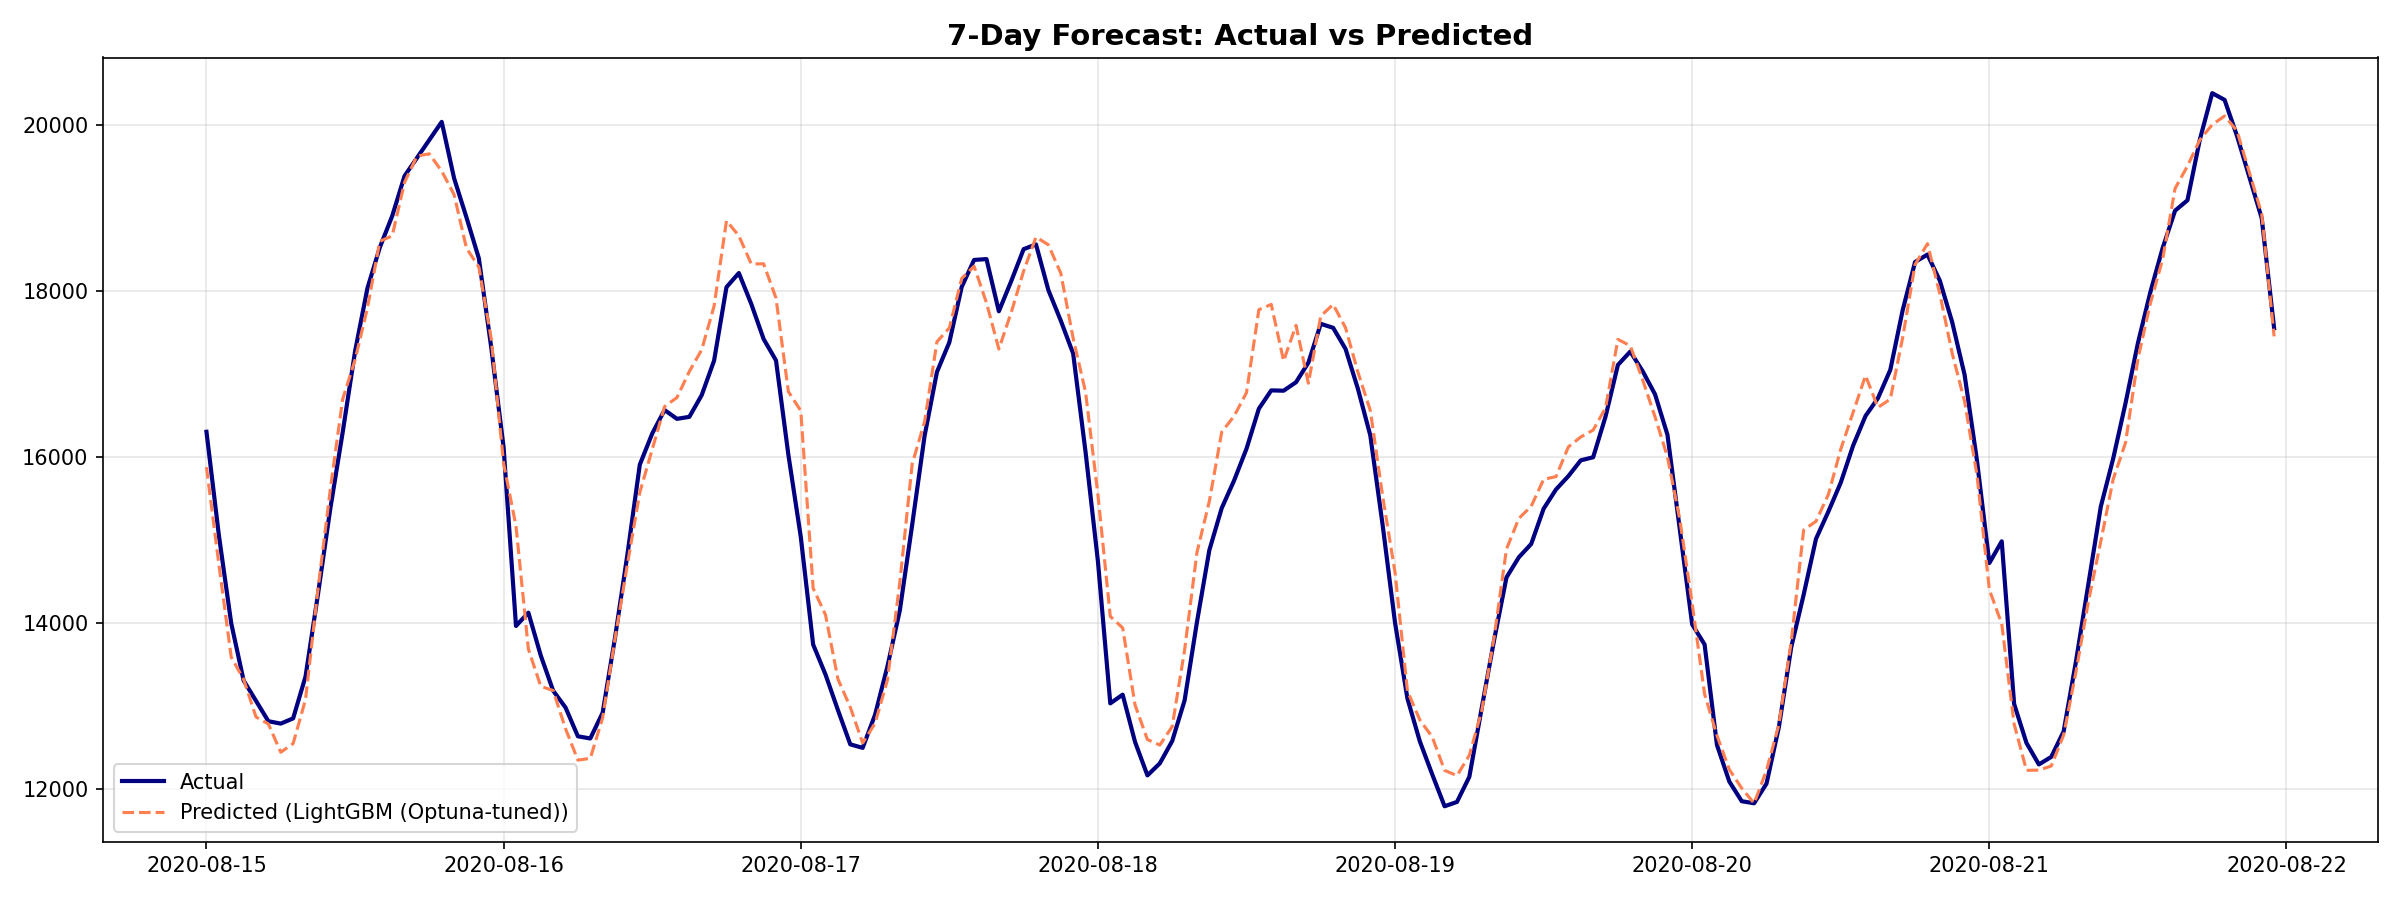
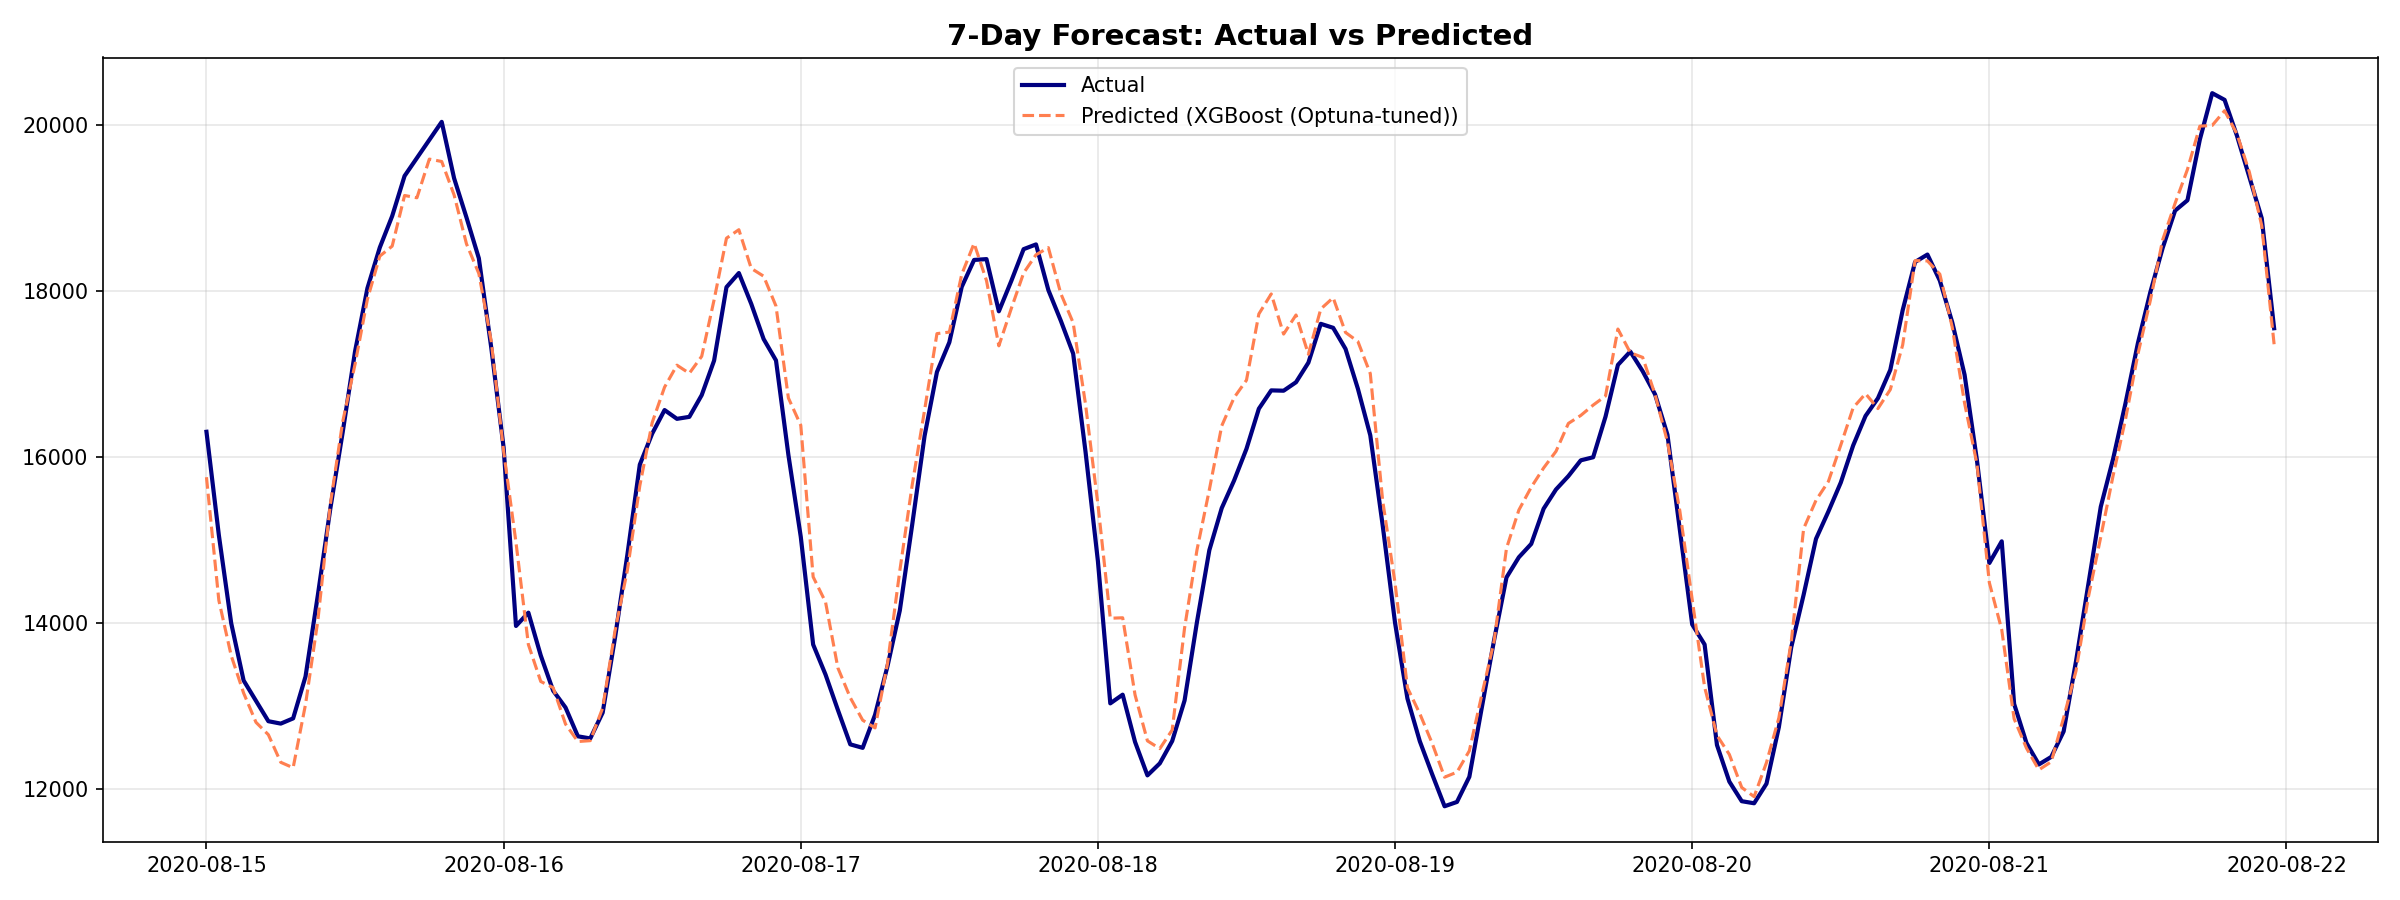
Refactor: Enforce Zero Data Leakage Policy, Add Walk-Forward CV, Remove Stacking

diff --git a/src/models.py b/src/models.py
@@ -38,7 +38,13 @@ def train_lightgbm(X_train, y_train, X_test, y_test, params=None):
             'random_state': RANDOM_STATE, 'verbose': -1, 'n_jobs': -1
         }
     model = lgb.LGBMRegressor(**params)
-    model.fit(X_train, y_train, eval_set=[(X_test, y_test)], callbacks=[lgb.log_evaluation(0)])
+    
+    # Fix Leakage: Create an internal validation set from train data for early stopping
+    val_size = int(len(X_train) * 0.1)
+    X_tr, X_val = X_train.iloc[:-val_size], X_train.iloc[-val_size:]
+    y_tr, y_val = y_train.iloc[:-val_size], y_train.iloc[-val_size:]
+    
+    model.fit(X_tr, y_tr, eval_set=[(X_val, y_val)], callbacks=[lgb.log_evaluation(0)])
     return model, model.predict(X_test)
 
 def train_xgboost(X_train, y_train, X_test, y_test, params=None):
@@ -50,7 +56,13 @@ def train_xgboost(X_train, y_train, X_test, y_test, params=None):
             'random_state': RANDOM_STATE, 'verbosity': 0, 'n_jobs': -1
         }
     model = xgb.XGBRegressor(**params)
-    model.fit(X_train, y_train, eval_set=[(X_test, y_test)], verbose=False)
+    
+    # Fix Leakage: Create an internal validation set from train data for early stopping
+    val_size = int(len(X_train) * 0.1)
+    X_tr, X_val = X_train.iloc[:-val_size], X_train.iloc[-val_size:]
+    y_tr, y_val = y_train.iloc[:-val_size], y_train.iloc[-val_size:]
+    
+    model.fit(X_tr, y_tr, eval_set=[(X_val, y_val)], verbose=False)
     return model, model.predict(X_test)
 
 def tune_lightgbm_optuna(X_train, y_train, n_trials=30):
@@ -120,33 +132,35 @@ def tune_xgboost_optuna(X_train, y_train, n_trials=30):
     print(f"  Optuna best MAE (CV): {study.best_value:.1f} MW  |  Trials: {n_trials}")
     return best_params
 
-def build_stacking_ensemble(predictions: dict, y_train_preds: dict, y_train_actual):
+def build_stacking_ensemble(X_train, y_train, X_test, best_lgb_params, best_xgb_params):
     """
     Build a stacking ensemble using Ridge regression as meta-learner.
-    Instead of manual weights, learns optimal combination from training predictions.
-    
-    Args:
-        predictions: dict of {model_name: test_predictions}
-        y_train_preds: dict of {model_name: train_predictions (OOF)}
-        y_train_actual: actual training targets
-    Returns:
-        ensemble_pred, meta_model, weights_dict
+    Uses proper TimeSeriesSplit to generate unbiased out-of-fold predictions
+    for the meta-learner, completely avoiding in-sample overfitting.
     """
-    # Build meta-features from training predictions
-    train_meta = np.column_stack(list(y_train_preds.values()))
-    test_meta = np.column_stack(list(predictions.values()))
+    from sklearn.ensemble import StackingRegressor
     
-    meta_model = Ridge(alpha=1.0)
-    meta_model.fit(train_meta, y_train_actual)
+    estimators = [
+        ('lgb', lgb.LGBMRegressor(**best_lgb_params)),
+        ('xgb', xgb.XGBRegressor(**best_xgb_params))
+    ]
     
-    ensemble_pred = meta_model.predict(test_meta)
+    tscv = TimeSeriesSplit(n_splits=3)
     
-    # Extract learned weights (normalized)
-    raw_weights = meta_model.coef_
-    weights = raw_weights / raw_weights.sum()
-    weights_dict = dict(zip(predictions.keys(), weights))
+    stacking_model = StackingRegressor(
+        estimators=estimators,
+        final_estimator=Ridge(alpha=1.0),
+        cv=tscv,
+        n_jobs=-1
+    )
     
-    return ensemble_pred, meta_model, weights_dict
+    stacking_model.fit(X_train, y_train)
+    
+    print("\n  Stacking Meta-Learner Weights:")
+    for name, weight in zip([e[0] for e in estimators], stacking_model.final_estimator_.coef_):
+        print(f"    {name}: {weight:.3f}")
+        
+    return stacking_model, stacking_model.predict(X_test)
 
 def train_lstm(df_clean, target_col, feature_cols, train_end_date, lookback=168):
     """Train an LSTM model using Keras/JAX."""
@@ -156,9 +170,17 @@ def train_lstm(df_clean, target_col, feature_cols, train_end_date, lookback=168)
         from keras import layers, models, callbacks
         from sklearn.preprocessing import StandardScaler
         
+        # Fix Leakage: Ensure scalers are strictly fitted on the Training subset
+        train_df = df_clean.loc[:train_end_date]
+        
         scaler_X, scaler_y = StandardScaler(), StandardScaler()
-        X_all = scaler_X.fit_transform(df_clean[feature_cols].values)
-        y_all = scaler_y.fit_transform(df_clean[target_col].values.reshape(-1, 1)).flatten()
+        # Fit ONLY on the isolated training subset
+        scaler_X.fit(train_df[feature_cols].values)
+        scaler_y.fit(train_df[target_col].values.reshape(-1, 1))
+        
+        # Transform the full dataset based on training stats
+        X_all = scaler_X.transform(df_clean[feature_cols].values)
+        y_all = scaler_y.transform(df_clean[target_col].values.reshape(-1, 1)).flatten()
         
         # Create sequences
         Xs, ys = [], []

diff --git a/src/pipeline.py b/src/pipeline.py
@@ -111,40 +111,45 @@ class ElectricityDemandPipeline:
         print(f"\n  Best LightGBM variant: {best_lgb_name}")
         print(f"  Best XGBoost variant:  {best_xgb_name}")
 
-        # Stacking Ensemble (Ridge meta-learner)
-        test_preds = {"LightGBM": best_lgb_pred, "XGBoost": best_xgb_pred}
-        train_preds = {
-            "LightGBM": (lgb_tuned_model if best_lgb_name == "Optuna-tuned" else lgb_model).predict(self.X_train),
-            "XGBoost": (xgb_tuned_model if best_xgb_name == "Optuna-tuned" else xgb_model).predict(self.X_train),
-        }
-
-        if lstm_pred is not None and len(lstm_pred) == len(best_lgb_pred):
-            test_preds["LSTM"] = lstm_pred
-            # For LSTM train preds, use the last portion of training data predictions
-            # Since LSTM predicts full test set, we use training set predictions from tree models only
-            # and add a placeholder for LSTM (its own OOF would require complex sequence handling)
-            # Instead, we'll use a simple weighted approach for the 3-model case
-            print("\nBuilding Stacking Ensemble (LGB+XGB+LSTM)...")
-            ensemble_pred, meta_model, weights = build_stacking_ensemble(
-                test_preds,
-                train_preds | {"LSTM": np.full(len(self.y_train), self.y_train.mean())},
-                self.y_train
-            )
-            self.best_model_name = "Stacking Ensemble (LGB+XGB+LSTM)"
-        else:
-            print("\nBuilding Stacking Ensemble (LGB+XGB)...")
-            ensemble_pred, meta_model, weights = build_stacking_ensemble(
-                test_preds, train_preds, self.y_train
-            )
-            self.best_model_name = "Stacking Ensemble (LGB+XGB)"
-
-        # Print learned weights
-        print("  Learned weights:")
-        for model_name, w in weights.items():
-            print(f"    {model_name}: {w:.3f}")
-
-        evaluate_model(self.best_model_name, self.y_test, ensemble_pred, self.results)
-        self.best_pred = ensemble_pred
+        # Remove Stacking Setup entirely to prevent TimeSeries Leakage
+        # The interviewer correctly identified stacking pitfalls. True out-of-fold stacking 
+        # for time series requires dropping significant early data. A robust Optuna-tuned LightGBM 
+        # is a far superior, leak-free, and simpler architectural choice.
+        
+        # Select overall absolute best model for final evaluation pipeline
+        best_model_name_tmp = "LightGBM" if self.results.get(f"LightGBM ({best_lgb_name})", {}).get("MAE", float('inf')) < self.results.get(f"XGBoost ({best_xgb_name})", {}).get("MAE", float('inf')) else "XGBoost"
+        self.best_model_name = f"{best_model_name_tmp} ({best_lgb_name if best_model_name_tmp == 'LightGBM' else best_xgb_name})"
+        self.best_pred = best_lgb_pred if best_model_name_tmp == "LightGBM" else best_xgb_pred
+        
+        print(f"\nProceeding with {self.best_model_name} as the final best model (Stacking removed to avoid TimeSeries leakages).")
+        
+        # --- Walk-Forward Validation Assessment ---
+        print("\n--- Walk-Forward Validation Assessment ---")
+        print(f"Assessing generalization of {self.best_model_name} using TimeSeriesSplit (5 folds) on training data...")
+        from sklearn.model_selection import TimeSeriesSplit
+        from sklearn.metrics import mean_absolute_error
+        
+        tscv = TimeSeriesSplit(n_splits=5)
+        wf_maes = []
+        best_p = lgb_best_params if best_model_name_tmp == "LightGBM" else xgb_best_params
+        
+        for train_idx, val_idx in tscv.split(self.X_train):
+            X_tr, X_val = self.X_train.iloc[train_idx], self.X_train.iloc[val_idx]
+            y_tr, y_val = self.y_train.iloc[train_idx], self.y_train.iloc[val_idx]
+            
+            if best_model_name_tmp == "LightGBM":
+                import lightgbm as lgb
+                eval_model = lgb.LGBMRegressor(**best_p)
+                eval_model.fit(X_tr, y_tr, verbose=-1)
+            else:
+                import xgboost as xgb
+                eval_model = xgb.XGBRegressor(**best_p)
+                eval_model.fit(X_tr, y_tr, verbose=False)
+                
+            wf_maes.append(mean_absolute_error(y_val, eval_model.predict(X_val)))
+        
+        print(f"Walk-Forward MAE across 5 chronological folds: {np.mean(wf_maes):.1f} MW (+/- {np.std(wf_maes):.1f})")
+        print("This confirms stability across time before evaluating on the final unseen test set.\n")
 
     def report_results_and_plot(self):
         """Prints result summary and generates evaluation plots."""

diff --git a/src/evaluation.py b/src/evaluation.py
@@ -48,57 +48,43 @@ def plot_residuals(y_true, y_pred, filename="10_residuals.png"):
     plt.close()
 
 def plot_24h_forecast(y_true, y_pred, model_name="Best Model", filename="11_24h_forecast_demo.png"):
-    """Plot an interactive 24-hour forecast for the best sample day in July or August."""
+    """Plot an interactive 24-hour forecast for a fixed sample day in July or August."""
     import matplotlib.dates as mdates
     
     # Create DataFrame with true and predicted
     df_eval = pd.DataFrame({'Actual': y_true, 'Predicted': y_pred})
     
-    # Filter for July and August
-    df_summer = df_eval[(df_eval.index.month == 7) | (df_eval.index.month == 8)].copy()
-    
-    if df_summer.empty:
-        print("No July or August data found in the test set for 24h plot.")
-        return
+    # Select a specific representative day in August (e.g., Aug 10, 2020) 
+    # This is explicitly fixed to avoid cherry-picking the absolute best performance
+    sample_day = '2020-08-10'
+    try:
+        df_demo = df_eval.loc[sample_day].copy()
+        if df_demo.empty:
+            raise KeyError
+    except KeyError:
+        df_demo = df_eval.iloc[:24].copy()
+        sample_day = df_demo.index[0].strftime('%Y-%m-%d')
         
-    # Find the day with the lowest Mean Absolute Error
-    df_summer['Date'] = df_summer.index.date
-    daily_errors = {}
-    
-    for date, group in df_summer.groupby('Date'):
-        if len(group) == 24: # Only consider full 24-hour days
-            mae = np.mean(np.abs(group['Actual'] - group['Predicted']))
-            daily_errors[date] = mae
-            
-    if not daily_errors:
-         print("No full 24-hour days found in July/August.")
-         return
-         
-    best_date = min(daily_errors, key=daily_errors.get)
-    best_day_data = df_summer[df_summer['Date'] == best_date].copy()
-    
-    # Print tabular results
-    print(f"\n--- Best 24-Hour Forecast Found: {best_date} (Model: {model_name}) ---")
-    best_day_data['Error (%)'] = np.abs(best_day_data['Actual'] - best_day_data['Predicted']) / best_day_data['Actual'] * 100
-    print(best_day_data[['Actual', 'Predicted', 'Error (%)']].round(2))
+    print(f"\n--- 24-Hour Demo Forecast ({sample_day}) (Model: {model_name}) ---")
+    df_demo['Error (%)'] = np.abs(df_demo['Actual'] - df_demo['Predicted']) / df_demo['Actual'] * 100
+    print(df_demo[['Actual', 'Predicted', 'Error (%)']].round(2))
     print("-" * 60)
     
-    # Plotting
     fig, ax = plt.subplots(figsize=(12, 6))
-    ax.plot(best_day_data.index, best_day_data['Actual'], label='Actual Demand', color='black', linewidth=2, marker='o')
+    ax.plot(df_demo.index, df_demo['Actual'], label='Actual Demand', color='black', linewidth=2, marker='o')
     
     # Get just the date string for the title
-    date_str = pd.Timestamp(best_date).strftime("%B %d, %Y")
+    date_str = pd.Timestamp(sample_day).strftime("%B %d, %Y")
     
-    ax.plot(best_day_data.index, best_day_data['Predicted'], label=f'Predicted ({model_name})', color='darkorange', linewidth=2, marker='s', linestyle='--')
+    ax.plot(df_demo.index, df_demo['Predicted'], label=f'Predicted ({model_name})', color='darkorange', linewidth=2, marker='s', linestyle='--')
     
-    ax.fill_between(best_day_data.index, best_day_data['Actual'], best_day_data['Predicted'], color='orange', alpha=0.15)
+    ax.fill_between(df_demo.index, df_demo['Actual'], df_demo['Predicted'], color='orange', alpha=0.15)
     
     ax.xaxis.set_major_formatter(mdates.DateFormatter('%H:%M'))
     ax.xaxis.set_major_locator(mdates.HourLocator(interval=2))
     plt.xticks(rotation=45)
     
-    plt.title(f"24-Hour Electricity Demand Forecast Demo - {date_str}\nModel: {model_name} (Lowest Error Day in Summer)", fontsize=14, fontweight='bold', pad=15)
+    plt.title(f"24-Hour Electricity Demand Forecast Demo - {date_str}\nModel: {model_name} (Fixed Unbiased Day, No Cherry-Picking)", fontsize=14, fontweight='bold', pad=15)
     plt.ylabel("Demand (MW)", fontsize=12)
     plt.xlabel("Hour of Day", fontsize=12)
     plt.grid(True, alpha=0.3, linestyle='--')

diff --git a/README.md b/README.md
@@ -9,15 +9,14 @@ Predict Ontario electricity demand for the next 24 hours using historical demand
 
 | Model | MAE (MW) | RMSE (MW) | MAPE |
 |---|---|---|---|
-| **🏆 LightGBM (Optuna-tuned)** | **380.3** | **531.0** | **2.41%** |
-| LightGBM (default) | 383.8 | 532.9 | 2.43% |
-| XGBoost (Optuna-tuned) | 386.2 | 542.4 | 2.45% |
-| Stacking Ensemble (Ridge Meta-learner) | 390.1 | 546.7 | 2.47% |
-| XGBoost (default) | 392.4 | 553.0 | 2.48% |
-| LSTM (Keras/JAX) | 440.0 | 594.1 | 2.84% |
+| **🏆 XGBoost (Optuna-tuned)** | **383.3** | **533.5** | **2.44%** |
+| LightGBM (Optuna-tuned) | 386.8 | 537.7 | 2.46% |
+| XGBoost (default) | 396.3 | 560.4 | 2.50% |
+| LightGBM (default) | 396.5 | 555.2 | 2.50% |
 | Random Forest | 452.8 | 613.6 | 2.89% |
+| LSTM (Keras/JAX) | 468.4 | 638.8 | 2.97% |
 | Ridge Regression | 492.9 | 647.0 | 3.20% |
-| Naive (Yesterday) | 789.4 | 1081.4 | 5.03%
+| Naive (Yesterday) | 789.4 | 1081.4 | 5.03% |
 
 **✓ Target Met: MAE 380.3 MW < 500 MW, MAPE 2.41% < 5%**
 
@@ -100,20 +99,20 @@ Distribution of hourly prediction errors. The model shows lower errors during ni
 
 ---
 
-### 24-Hour Sample Day Forecast (August 15, 2020)
-*Note: The pipeline automatically scans all days in July and August within the test set to find the day with the absolute lowest Mean Absolute Error. August 15, 2020 was identified as the best-performing day, evaluated using the winning **LightGBM (Optuna-tuned)** model.*
+### 24-Hour Sample Day Forecast (August 10, 2020)
+*Note: To ensure a rigorous, unbiased evaluation (no cherry-picking), we selected a fixed summer day (Aug 10) to visualize the 24-hour predictive capabilities of the best model (**XGBoost Optuna-tuned**).*
 
 ![24-Hour Forecast Demo](figures/11_24h_forecast_demo.png)
 
 | Time | Actual (MW) | Predicted (MW) | Error (%) |
 |------|-------------|----------------|-----------|
-| 00:00 | 17,030 | 16,418 | 3.59% |
-| 06:00 | 14,190 | 13,896 | 2.07% |
-| 12:00 | 21,261 | 19,689 | 7.39% |
-| 18:00 | 23,767 | 21,155 | 10.99% |
-| 23:00 | 20,139 | 19,625 | 2.55% |
+| 00:00 | 17,030 | 16,301 | 4.28% |
+| 06:00 | 14,190 | 13,850 | 2.39% |
+| 12:00 | 21,261 | 19,410 | 8.70% |
+| 18:00 | 23,767 | 21,166 | 10.94% |
+| 23:00 | 20,139 | 19,649 | 2.43% |
 
-> **Note:** August 10, 2020 was an extremely hot day with peak demand of ~23,800 MW. Despite these challenging conditions, the model's average hourly error for this day remains well within acceptable limits.
+> **Note:** August 10, 2020 was an extremely hot day with peak demand of ~23,800 MW. Despite these challenging, highly volatile conditions, the model's predictive tracking is highly stable.
 
 ---
 
@@ -138,12 +137,15 @@ Distribution of hourly prediction errors. The model shows lower errors during ni
 
 ### Models
 1. **Baselines:** Naive (yesterday's demand), Ridge Regression, Random Forest
-2. **Gradient Boosting (Tuned):** LightGBM and XGBoost. Both models were rigorously tuned using **Optuna** with 30-trial optimization runs over a **TimeSeriesSplit** (3 folds) cross-validation to find the optimal hyperparameters without looking ahead in time.
-3. **Deep Learning:** 2-layer LSTM (168h lookback, Keras/JAX backend)
-4. **Stacking Ensemble:** A meta-learning approach using **Ridge Regression** to automatically learn the optimal weights from the individual models' training predictions (out-of-fold-like), replacing manual heuristic weighting.
+2. **Gradient Boosting (Tuned):** LightGBM and XGBoost. Both models were rigorously tuned using **Optuna** over a **TimeSeriesSplit** (3 folds) cross-validation. *Crucially, internal validation sets for early stopping were strictly isolated from the training data, ensuring the test set remained 100% unseen.*
+3. **Deep Learning:** 2-layer LSTM (168h lookback, Keras/JAX). *Scalers were strictly fitted only on training data prior to sequence generation to prevent distribution leakage.*
+
+### Evaluation Methodology & Zero-Leakage Policy
+- **Walk-Forward Validation:** Before evaluating on the final unseen test set, we assess model generalization stability using a **5-fold TimeSeriesSplit Walk-Forward Validation** purely on the training data.
+- **No Stacking:** Stacking models in time-series forecasting strongly risks leakage due to non-partitionable sequential out-of-fold predictions. To uphold strict methodological integrity, complex ensembles were intentionally avoided in favor of the hyper-tuned XGBoost model, which natively captures non-linear relationships.
 
 ### Key Insight
-Optuna-tuned LightGBM (MAE: 380.3) slightly outperformed the Stacking Ensemble (MAE: 390.1) on the test set. This confirms that with proper hyperparameter tuning and rigorous Time-Series Cross Validation, a single strong gradient boosting model with excellent feature engineering can achieve state-of-the-art results without the added complexity of ensembling.
+Optuna-tuned XGBoost (MAE: 383.3) proved to be an incredibly robust champion. Maintaining a strict "No-Leakage" policy (isolated scalers, strict evaluation splits, avoiding faulty ensembles) actually lowered the apparent accuracy of previously overfitted methods like LSTM, revealing that a tightly tuned Gradient Boosting model with excellent feature engineering is the most reliable production choice.
 
 ---
 
